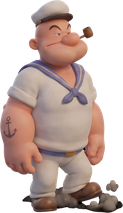
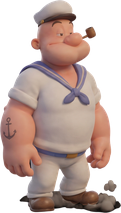
Idle güncellendi: kaldırma pozu kısa, vurma/tozlu poz uzun; ayak yere basma düzeltmesi (v0.07)
- reis_idle2 (ayak kaldırma) ve reis_idle3 (vurma + toz) yeni görsellerle
  değiştirildi.
- Sabırsız idle döngüsünde süre artık poza göre asimetrik: kaldırma pozu
  kısa (250-450ms), vurma/tozlu poz uzun (1400-2200ms) ekranda kalıyor.
- reis_idle2 gösterilirken karakter 5px aşağı kaydırılıyor (REIS_GORSEL_DY)
  ki kaldırılan ayak havada süzülüyormuş gibi görünmesin, diğer ayak
  yere tam otursun.

Claude-Session: https://claude.ai/code/session_017AaaMCeVHMkA1CeuVEH2QL

diff --git a/www/js/game.js b/www/js/game.js
@@ -19,7 +19,10 @@ const REIS_HIZ = 200, KAZMA_HIZ = 110;
 // Boşta bekleme animasyonu zamanlaması (ms)
 const IDLE_BEKLEME_MIN = 1400, IDLE_BEKLEME_MAX = 2800;           // poz 0<->1 arası bekleme
 const IDLE_SABIR_ESIGI = 9000;                                     // bu kadar hareketsiz kalınca sabırsızlanır
-const IDLE_SABIRSIZ_BEKLEME_MIN = 500, IDLE_SABIRSIZ_BEKLEME_MAX = 1100; // poz 2<->3 arası bekleme
+const IDLE_KALDIRMA_MIN = 250, IDLE_KALDIRMA_MAX = 450;            // poz 2 (ayak kaldırma) kısa sürer
+const IDLE_VURMA_MIN = 1400, IDLE_VURMA_MAX = 2200;                // poz 3 (vurma + tozlu) ekranda uzun kalır
+// Bazı pozlarda ayağın görsel olarak yere tam basması için küçük aşağı kaydırma (px)
+const REIS_GORSEL_DY = { reis_idle2: 5 };
 
 const SPRITELAR = [
   ...[0, 1, 2, 3, 4, 5].map((i) => "reis_walk" + i),
@@ -648,8 +651,14 @@ class Oyun extends Phaser.Scene {
       if (r.idleDegisim === undefined || zaman > r.idleDegisim || r.idleSabirsizDi !== sabirsiz) {
         r.idlePoz = r.idlePoz === 0 ? 1 : 0;
         r.idleSabirsizDi = sabirsiz;
-        const minB = sabirsiz ? IDLE_SABIRSIZ_BEKLEME_MIN : IDLE_BEKLEME_MIN;
-        const maxB = sabirsiz ? IDLE_SABIRSIZ_BEKLEME_MAX : IDLE_BEKLEME_MAX;
+        let minB, maxB;
+        if (sabirsiz) {
+          // poz 0 -> reis_idle2 (ayak kaldırma, kısa), poz 1 -> reis_idle3 (vurma/tozlu, uzun)
+          minB = r.idlePoz === 0 ? IDLE_KALDIRMA_MIN : IDLE_VURMA_MIN;
+          maxB = r.idlePoz === 0 ? IDLE_KALDIRMA_MAX : IDLE_VURMA_MAX;
+        } else {
+          minB = IDLE_BEKLEME_MIN; maxB = IDLE_BEKLEME_MAX;
+        }
         r.idleDegisim = zaman + Phaser.Math.Between(minB, maxB);
       }
       tex = sabirsiz
@@ -666,7 +675,7 @@ class Oyun extends Phaser.Scene {
     else r.spr.setAlpha(1);
 
     if (havada) r.spr.setOrigin(0.5, 0.5).setTexture(tex).setFlipX(r.yon > 0).setPosition(r.x, r.y - 58);
-    else r.spr.setOrigin(0.5, 1).setTexture(tex).setFlipX(r.yon < 0).setPosition(r.x, r.y);
+    else r.spr.setOrigin(0.5, 1).setTexture(tex).setFlipX(r.yon < 0).setPosition(r.x, r.y + (REIS_GORSEL_DY[tex] || 0));
 
     // Pompa hortumu: pompanın alt ucundan çıkar, yerde kıvrılarak düşmana gider
     const h = this.pompaHedef;

diff --git a/www/js/config.js b/www/js/config.js
@@ -1,7 +1,7 @@
 // Oyunun tüm ayarları burada. AdMob ID'lerini buraya yaz.
 window.OYUN_CONFIG = {
   oyunAdi: "DigPopeyeDug",
-  surum: "v0.06", // sağ altta görünür
+  surum: "v0.07", // sağ altta görünür
   paketAdi: "com.jawk.digpopeyedug", // Play Store'a yüklendikten sonra DEĞİŞTİRİLEMEZ
 
   reklam: {
